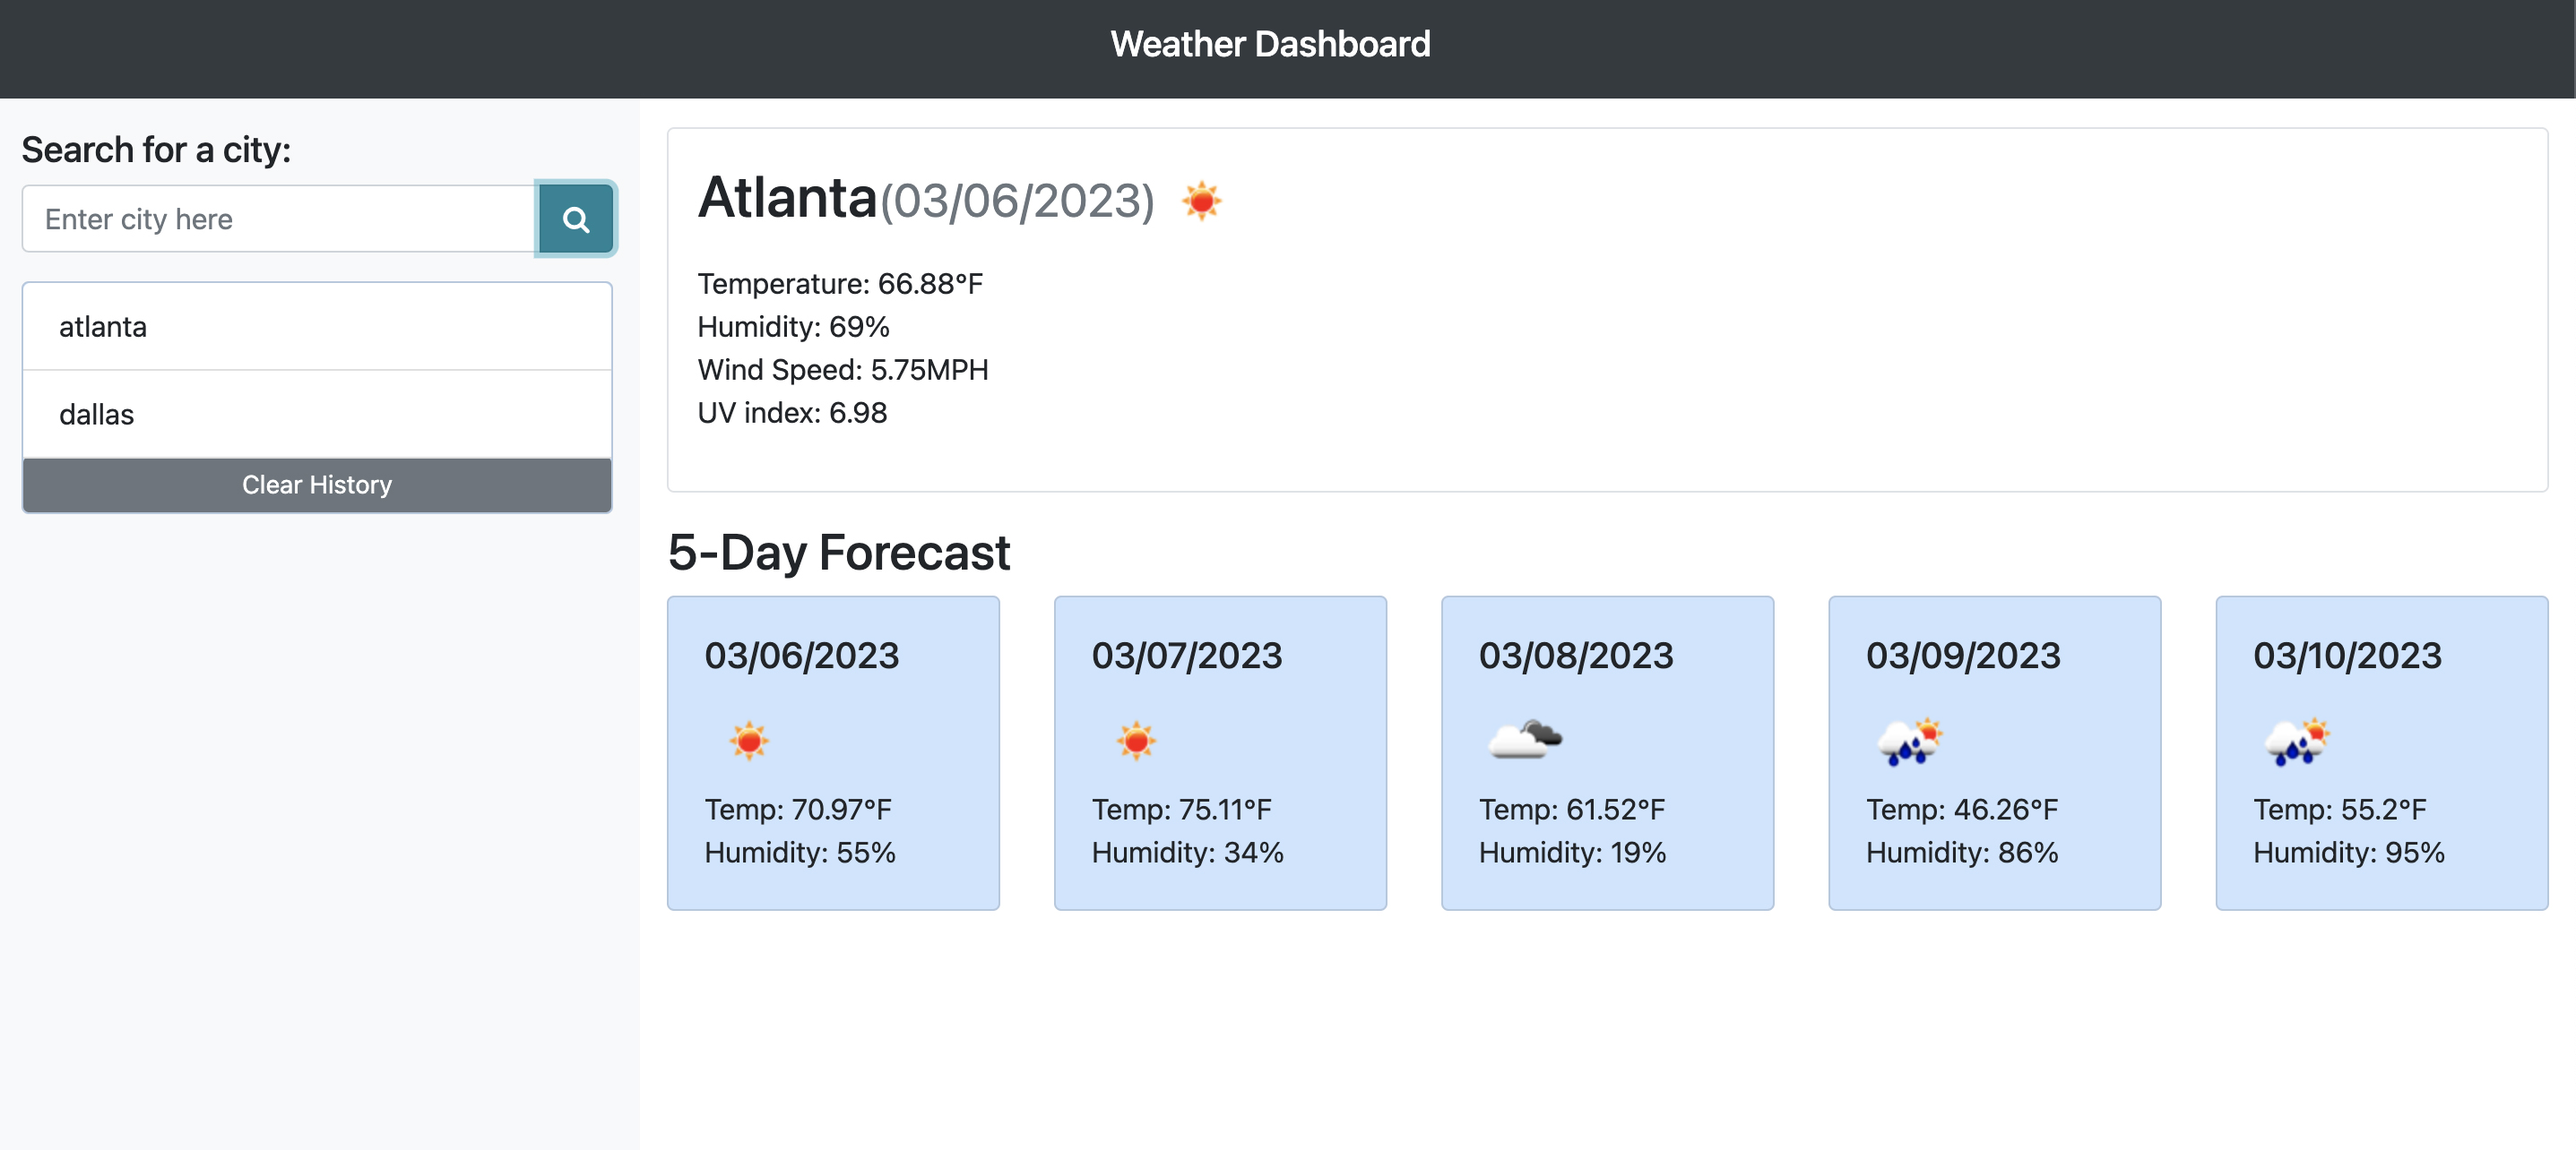
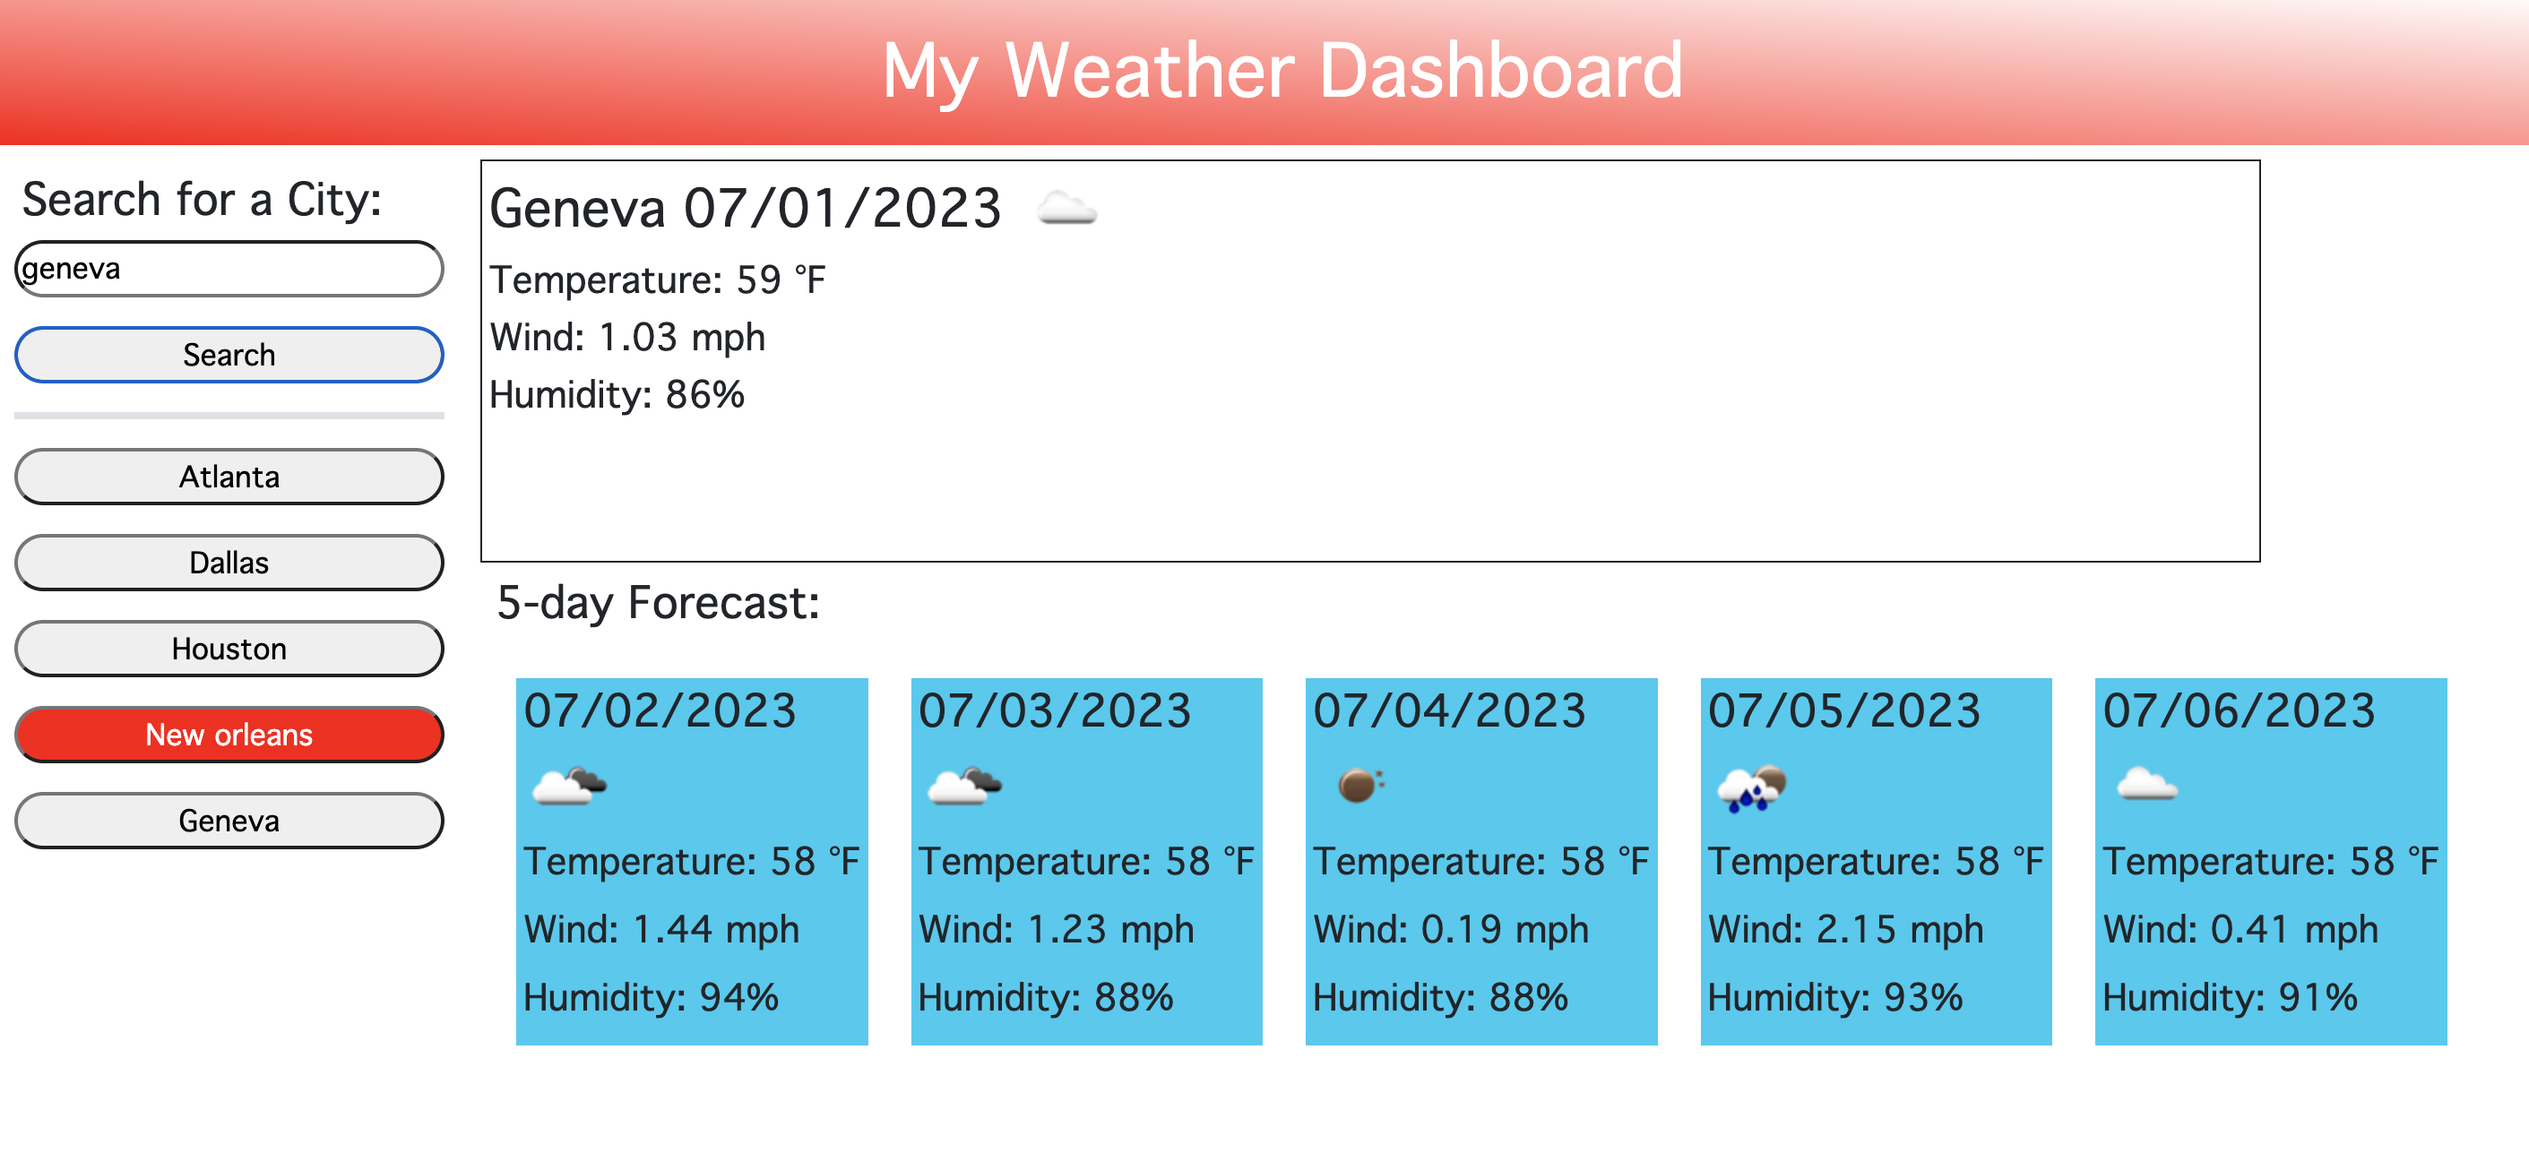
updated to fetch

diff --git a/assets/script.js b/assets/script.js
@@ -1,39 +1,150 @@
-// Add Search Button Event.Listener
+
 // Store City 
 //api- https://openweathermap.org/forecast5#cityid5
 
-// Form Element Variables
-let searchData = document.getElementById("searchData");
-let searchForm = document.getElementById("searchForm");
+var searchInput = $('#searchInput');
+var searchBtn = $('#searchBtn');
+var daysForecast = $('#daysForecast'); 
+let apiKey = 'a69f566d76c60b3b1c5949c3a3d79975';
+var todaysDate = $('#todaysDate');
+var fiveDayForecast = $('#fiveDayForecast');
+var historyBtn = $('#cityHistory');
+var fiveDayForecastTxt = $('.5DayForecast');
+var localStorageArray = JSON.parse(localStorage.getItem('searchInput')) || [];
 
-const apiKey = "a69f566d76c60b3b1c5949c3a3d79975"
+function init() {
+    for (var i = 0; i < localStorageArray.length; i++) {
+        var buttonElement = $('<button>').text(localStorageArray[i]);
+        historyBtn.append(buttonElement);
+        };
+    }
 
-//5 day forecast element variables
-let forecast = document.getElementByID('forecast');
+    async function getGeoData(cityName) {
+        var url = `https://api.openweathermap.org/geo/1.0/direct?q=${cityName}&appid=${apiKey}`;
+        var response = await fetch(url);
+        var data = await response.json();
+        console.log(data);
+        if (data.length === 0) {
+            throw new Error('Location not found! Enter a valid city.');
+        }
+        return data;
+    }
 
-//today's weather element variables
-let todaysConditions = document.getElementById("todaysConditions");
-let city = document.getElementById("city");
-let temp = document.getElementById("temp");
-let wind = document.getElementById('wind');
-let humidity = document.getElementById('humidity');
-
-// event listener for search button
-
-searchForm.addEventListener("clicked", function(event){
-    event.preventDefault();
-    let citySearched = Object.fromEntries(new FormData(searchForm).city);
-    getForecast(citySearched);
-    saveCity(citySearched);
-    console.log('clicked')
-})
-
-async function getForecast(citySearched){
-    let weatherApi = "api.openweathermap.org/data/2.5/forecast?units=imperial&appid=a69f566d76c60b3b1c5949c3a3d79975&q=" + citySearched; 
-    console.log(weatherApi);
-
-    let results = await fetch(weatherApi);
-    let data = await results.json();
-    clearWeather();
+    async function get5DayForecast(lat, lon) {
+        var url = `https://api.openweathermap.org/data/2.5/forecast?lat=${lat}&lon=${lon}&appid=${apiKey}`
+        var response = await fetch(url);
+        var data = await response.json();
+        console.log(data);
+        fiveDayForecastTxt.removeClass('invisible');
+        for (var i = 7; i < data.list.length; i += 8) {
+            var day = data.list[i];
+            var dt_txt = day.dt_txt;
+            var date = new Date(dt_txt);
+            var formattedDate = dayjs(date).format('MM/DD/YYYY');
+            var iconCode = day.weather[0].icon;
+            var iconLink = `https://openweathermap.org/img/w/${iconCode}.png`;
+            var icon = $('<img>').attr('src', iconLink);
+            var wind = day.wind.speed;
+            var humidity = day.main.humidity;
+            var tempK = data.list[0].main.temp;
+            var tempF = Math.round((tempK - 273.15) * 1.8 + 32);
+            var tempElement = $('<p>').text(`Temperature: ${tempF} °F`);
+            var windElement = $('<p>').text(`Wind: ${wind} mph`);
+            var humidityElement = $('<p>').text(`Humidity: ${humidity}%`);
+            var dayElement = $('<div>').addClass('day p-2 m-4 bg-info text-dark');
+            dayElement.append($('<h5>').text(formattedDate));
+            dayElement.append(icon);
+            dayElement.append(tempElement);
+            dayElement.append(windElement);
+            dayElement.append(humidityElement);
+            fiveDayForecast.append(dayElement);
+        }
+    }
     
-}
+    async function getCurrentWeather(lat, lon) {
+        var apiUrl = `https://api.openweathermap.org/data/2.5/weather?lat=${lat}&lon=${lon}&appid=${apiKey}`
+        var response = await fetch(apiUrl);
+        var data = await response.json();
+        console.log(data);
+        daysForecast.addClass('border border-dark h-50');
+        var currentDate = new Date();
+        var formattedDate = dayjs(currentDate).format('MM/DD/YYYY');
+        var iconCode = data.weather[0].icon;
+        var iconLink = `https://openweathermap.org/img/w/${iconCode}.png`;
+        var iconPic = $('<img>').attr('src', iconLink);
+        todaysDate.append(data.name + " " + formattedDate + " ").append(iconPic);
+        var wind = data.wind.speed;
+        var humidity = data.main.humidity;
+        var tempK = data.main.temp;
+        var tempF = Math.round((tempK - 273.15) * 1.8 + 32);
+        var tempElement = $('<p>').text(`Temperature: ${tempF} °F`);
+        var windElement = $('<p>').text(`Wind: ${wind} mph`);
+        var humidityElement = $('<p>').text(`Humidity: ${humidity}%`);
+        todaysDate.append(tempElement).append(windElement).append(humidityElement);
+    }
+    
+    function storeCity(city) {
+        if (!localStorageArray.includes(city)) {
+            localStorageArray.push(city);
+        }
+        localStorage.setItem('searchInput', JSON.stringify(localStorageArray));
+    }
+    
+    function formatCityName(cityName) {
+        // Capitalize the first letter of the city name and make the rest lowercase
+        return cityName.charAt(0).toUpperCase() + cityName.slice(1).toLowerCase();
+      }
+    
+      historyBtn.on('click', 'button', function() {
+        todaysDate.empty();
+        fiveDayForecast.empty();
+        var cityName = $(this).text();
+        cityName = formatCityName(cityName);
+        getGeoData(cityName)
+        .then(function(data) {
+          var lat = data[0].lat;
+          var lon = data[0].lon;
+          return get5DayForecast(lat, lon) && getCurrentWeather(lat,lon);
+        })
+        .catch(function(error) {
+          console.log(error);
+        });
+      });
+    
+      searchBtn.on('click', function() {
+        todaysDate.empty();
+        fiveDayForecast.empty();
+        var cityName = searchInput.val();
+        if(cityName === '') {
+            alert('Please enter a City Name.')
+        } else {
+            cityName = formatCityName(cityName);
+            getGeoData(cityName)
+            .then(function(data) {
+                var lat = data[0].lat;
+                var lon = data[0].lon;
+                var buttonExists = false;
+                // check if button already exists
+                historyBtn.children().each(function() {
+                    if ($(this).text() === cityName) {
+                        buttonExists = true;
+                    }
+                });
+                // append button if it doesn't exist
+                if (!buttonExists) {
+                    var buttonElement = $('<button>').text(cityName);
+                    historyBtn.append(buttonElement);
+                    storeCity(cityName);
+                }
+                return get5DayForecast(lat, lon) && getCurrentWeather(lat,lon);
+            })
+            .catch(function(error) {
+                alert(error.message);
+            });
+        }
+    });
+    
+    
+    init ();
+    
+

diff --git a/index.html b/index.html
@@ -4,35 +4,40 @@
     <meta charset="UTF-8">
     <meta http-equiv="X-UA-Compatible" content="IE=edge">
     <meta name="viewport" content="width=device-width, initial-scale=1.0">
-     <!-- Bootstrap CSS -->
-    <link rel="stylesheet" href="https://cdn.jsdelivr.net/npm/bootstrap@4.3.1/dist/css/bootstrap.min.css" integrity="sha384-ggOyR0iXCbMQv3Xipma34MD+dH/1fQ784/j6cY/iJTQUOhcWr7x9JvoRxT2MZw1T" crossorigin="anonymous">
+    <link href="https://cdn.jsdelivr.net/npm/bootstrap@5.3.0-alpha1/dist/css/bootstrap.min.css" rel="stylesheet" integrity="sha384-GLhlTQ8iRABdZLl6O3oVMWSktQOp6b7In1Zl3/Jr59b6EGGoI1aFkw7cmDA6j6gD" crossorigin="anonymous">
     <link rel="stylesheet" href="./assets/style.css">
-    <title>What Is The Weather</title>
+    <title>What is the Weather</title>
 </head>
 <body>
-    <nav class="navbar navbar-dark bg-dark d-flex justify-content-center" >
-        <h1>Weather Dashboard</h1>
-      </nav>
-      <div class="row justify-content-start">
-        <section id="searchData" class="d-flex flex-column col-2">
-        <h2 class="p-2">Search for a City:</h2>
-        <form id="searchForm" class="d-grid gap-3 p-2">
-            <input type="text" class="form-control" id="searchValue" name="city"/>
-            <button id="searchBtn" class="btn-primary btn">Search</button>
-        </form>
-    </section>
-      <section class="col-md-6" id="forecast">
-        <section class="card" id="today">
-            <h2 id="city" class="card-title">Search results will be displayed here!</h2>
-            <section class="card-body" id="todaysConditions">
-                <p class="card text-bg-dark mb-3" id="temp"></p>
-                <p class="card text-bg-dark mb-3" id="wind"></p>
-                <p class="card text-bg-dark mb-3" id="humidity"></p>
+    <header class="text-center p-4">My Weather Dashboard</header>
+
+    <div class="d-flex flex-row">
+        <div class="col-2 flex-column m-4">
+            <section class= 'border-bottom border-4'>
+                <h5 class="p-2">Search for a City:</h5>
+                <input id="searchInput"></input>
+                <button id="searchBtn">Search</button>
             </section>
-        </section>
-        <section class="d-lg-flex flex-wrap d-grid gap-3 mt-3 justify-content-center card text-bg-dark mb-3" id="5Day">
-            <h3></h3>
-        </section>
-  
+            <section id='cityHistory' class="col-2 flex-column w-100">
+
+            </section>
+        </div>
+        <div class="col-10 flex-column m-2 p-2">
+            <section id='daysForecast' class="col-10">
+                <h4 class='p-2'id="todaysDate"></h4>
+            </section>
+            <section class="m-2 p-2">
+                <h5 class="5DayForecast invisible">5-day Forecast:</h5>
+            </section>
+            <section class='m-2 p-2 d-flex flex-row' id="fiveDayForecast">
+            </section>
+        </div>
+    </div>
+    <script src="https://cdnjs.cloudflare.com/ajax/libs/jquery/3.6.3/jquery.js" integrity="sha512-nO7wgHUoWPYGCNriyGzcFwPSF+bPDOR+NvtOYy2wMcWkrnCNPKBcFEkU80XIN14UVja0Gdnff9EmydyLlOL7mQ==" crossorigin="anonymous" referrerpolicy="no-referrer"></script>
+<script src="https://cdn.jsdelivr.net/npm/bootstrap@5.3.0-alpha1/dist/js/bootstrap.bundle.min.js" integrity="sha384-w76AqPfDkMBDXo30jS1Sgez6pr3x5MlQ1ZAGC+nuZB+EYdgRZgiwxhTBTkF7CXvN" crossorigin="anonymous"></script>
+<script src="https://cdn.jsdelivr.net/npm/dayjs@1/plugin/utc.js"></script>
+<script src="https://cdn.jsdelivr.net/npm/dayjs@1/dayjs.min.js"></script>
+<script>dayjs.extend(window.dayjs_plugin_utc)</script>
+<script src='./assets/script.js'></script>
 </body>
 </html>

diff --git a/assets/style.css b/assets/style.css
@@ -1,8 +1,53 @@
-h1 {
-font-size: 28px;
-color: white;
+* {
+    font-family:'Segoe UI', Geneva, Verdana, sans-serif;
+    font-size: 50%;
 }
+
+header {
+    font-size: 5rem;
+    background: linear-gradient(to right top, red, white);
+    color: white;
+    
+}
+
+h1 {
+    font-size: 5rem;
+}
+
 h2 {
-    font-size: 24px;
-    font-weight: bold
-    }
+    font-size: 4.5rem;
+}
+
+h3 {
+    font-size: 4rem;
+}
+
+h4 {
+    font-size: 3.5rem;
+}
+
+h5 {
+    font-size: 3rem;
+}
+
+section input, button {
+    font-size: 2rem;
+    width: 100%;
+    margin-bottom: 2rem;
+    height: 4rem;
+    border-radius: 2rem;
+}
+
+p {
+    font-size: 2.5rem;
+}
+
+#cityHistory {
+    margin-top: 2rem;
+}
+
+button:hover {
+    background-color: red; 
+    color: white; 
+    transition: .65s;
+}
